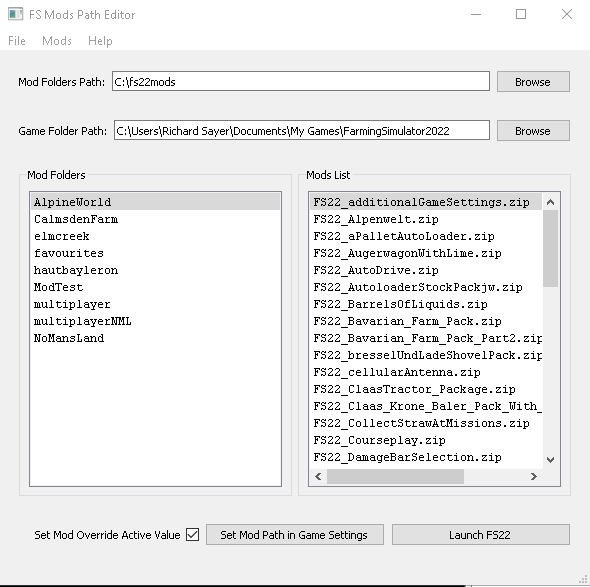
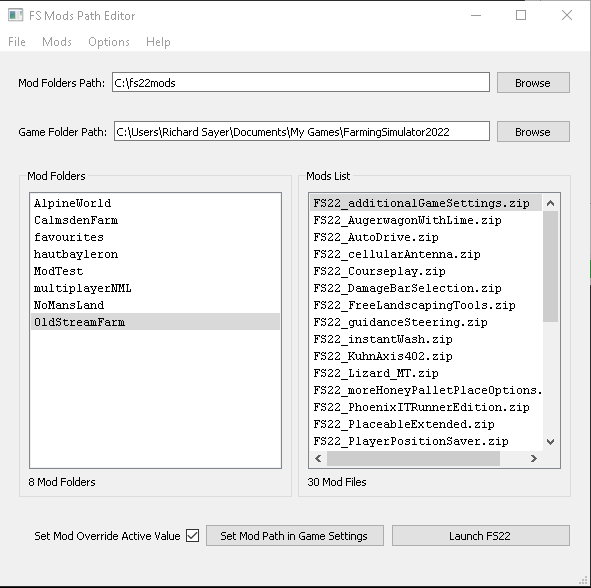
Added Options menu and moved the options menu items from the File Menu. Updated the help files.

diff --git a/help/help.html b/help/help.html
@@ -69,16 +69,16 @@ color: black;
 p {
 text-indent: 50px;
 }
-</style>
-</head>
-
+</style></head>
 <body>
 <ul>
 <li><a href="#FolderPaths">Folder Paths</a></li>
 <li class="dropdown">
 <a href="javascript:void(0)" class="dropbtn">Menus</a>
-<div class="dropdown-content"><a href="#mnufile">File</a>
+<div class="dropdown-content">
+<a href="#mnufile">File</a>
 <a href="#mnuMods">Mods</a>
+<a href="#mnuOptions">Options</a>
 <a href="#mnuhelp">Help</a>
 </div>
 </li>
@@ -95,9 +95,13 @@ Path Override</a>
 Editor</h1>
 <span style="font-weight: bold;">Manage your mods by using
 seperate directories for different
-maps</span>.<span style="font-weight: normal;">&nbsp;This
+maps</span>.<span style="font-weight: normal;">
+This helps to avoid any conflicts having multple maps and mods you
+don't need for the game you are playing. It is especially useful if you
+have multiplayer games as you can install only the mods required for
+the server.<br><br>This
 application uses the subfolders in the "Mod Folders Path" to store the
-mods you wish to use for the map you are playing. I updates the
+mods you wish to use for the map you are playing. It updates the
 attributes in the&nbsp;</span><span style="color: rgb(153, 0, 0);">modsDirectoryOverride </span><span style="font-weight: normal;">tag in the gameSettings.xml
 file &nbsp;to use the selected foler when the game is launched.</span><span style="color: rgb(153, 0, 0);"></span>
 <p><img src="images/application.png"></p>
@@ -133,7 +137,19 @@ dialog to locate and select the mod file</p>
 the highlighted mod file in the "Mods List" list&nbsp; (<span style="color: red;">and all of its contents</span>)
 from the mod folders path. Right clicking a mod file&nbsp; in the
 list will show the remove context menu</p>
-<a href="#">Top</a>
+<h4>Copy Mods to Current Folder</h4>
+<p>This will launch the "Open FIles" dialog so you can select the
+file(s) you wish to copy to the selected directory</p>
+<a href="#">Top</a><br>
+<h3 id="mnuOptions">The Options Menu</h3>
+<h4>Show Options</h4>
+<p>Opens the options file (config.ini) in a text editor. For
+Windows it will be Notepad.</p>
+<h4>Double CLick Folder to Launch</h4>
+<p>Checks/Unchecks the menu item. If checked then double clicking
+a mod folder will set the path in the gameSettings.xml file and lauch
+FS22</p>
+<a href="help.html#">Top</a>
 <h3 id="mnuhelp">The Help Menu</h3>
 <h4>Help</h4>
 <p>Opens this help file in a browser</p>
@@ -142,7 +158,7 @@ list will show the remove context menu</p>
 <a href="#">Top</a>
 <h3>Menu Shortcuts</h3>
 <blockquote> <b>File menu</b><br>
-CTRL + x = Exit application<br>
+CTRL + X = Exit application<br>
 </blockquote>
 <a href="#">Top</a><br>
 <h3>Buttons</h3>

diff --git a/EditorGUI.py b/EditorGUI.py
@@ -134,6 +134,8 @@ class Ui_MainWindow(object):
         self.menuHelp.setObjectName("menuHelp")
         self.menuMods = QtWidgets.QMenu(self.menubar)
         self.menuMods.setObjectName("menuMods")
+        self.menuSettings = QtWidgets.QMenu(self.menubar)
+        self.menuSettings.setObjectName("menuSettings")
         MainWindow.setMenuBar(self.menubar)
         self.statusbar = QtWidgets.QStatusBar(MainWindow)
         self.statusbar.setObjectName("statusbar")
@@ -180,8 +182,6 @@ class Ui_MainWindow(object):
         self.mnuFIleShowOptions.setObjectName("mnuFIleShowOptions")
         self.mnuCopyMods = QtWidgets.QAction(MainWindow)
         self.mnuCopyMods.setObjectName("mnuCopyMods")
-        self.menuFile.addAction(self.mnuFileClickToLaunch)
-        self.menuFile.addAction(self.mnuFIleShowOptions)
         self.menuFile.addSeparator()
         self.menuFile.addAction(self.mnFileExit)
         self.menuHelp.addAction(self.mnuHelpHelp)
@@ -194,8 +194,12 @@ class Ui_MainWindow(object):
         self.menuMods.addAction(self.mnuModsRemoveItem)
         self.menuMods.addSeparator()
         self.menuMods.addAction(self.mnuCopyMods)
+        self.menuSettings.addAction(self.mnuFIleShowOptions)
+        self.menuSettings.addSeparator()
+        self.menuSettings.addAction(self.mnuFileClickToLaunch)
         self.menubar.addAction(self.menuFile.menuAction())
         self.menubar.addAction(self.menuMods.menuAction())
+        self.menubar.addAction(self.menuSettings.menuAction())
         self.menubar.addAction(self.menuHelp.menuAction())
 
         self.retranslateUi(MainWindow)
@@ -221,6 +225,7 @@ class Ui_MainWindow(object):
         self.menuFile.setTitle(_translate("MainWindow", "File"))
         self.menuHelp.setTitle(_translate("MainWindow", "Help"))
         self.menuMods.setTitle(_translate("MainWindow", "Mods"))
+        self.menuSettings.setTitle(_translate("MainWindow", "Options"))
         self.mnuFileOpen.setText(_translate("MainWindow", "&Open"))
         self.mnuFileOpen.setToolTip(_translate("MainWindow", "Open a check list file"))
         self.mnuFileSave.setText(_translate("MainWindow", "&Save"))
